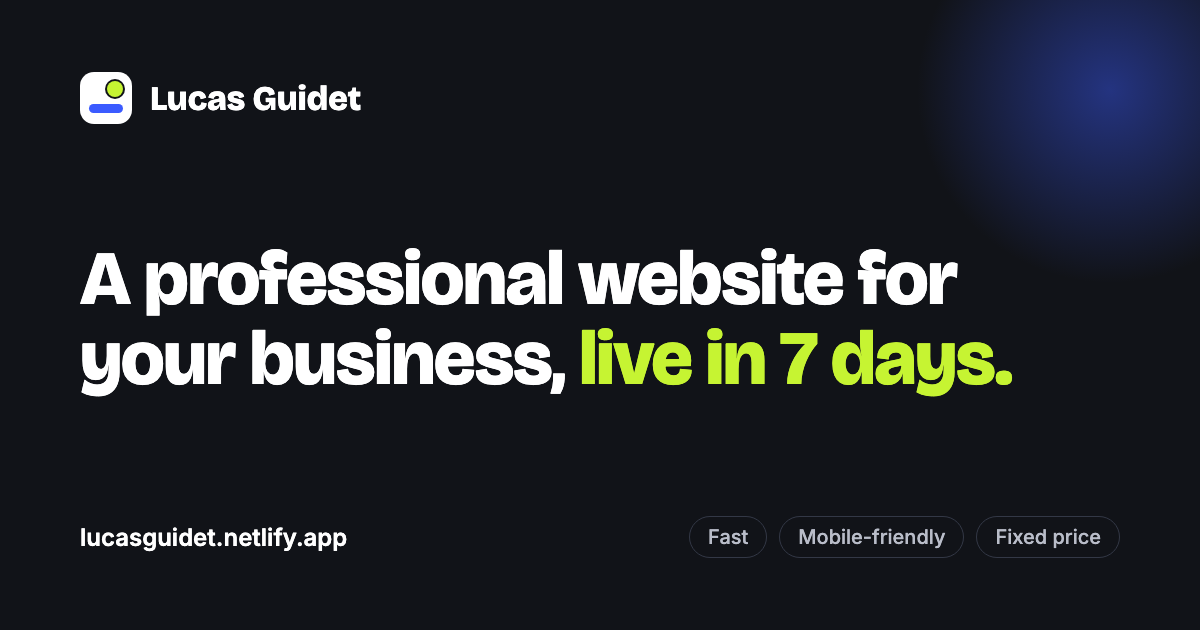
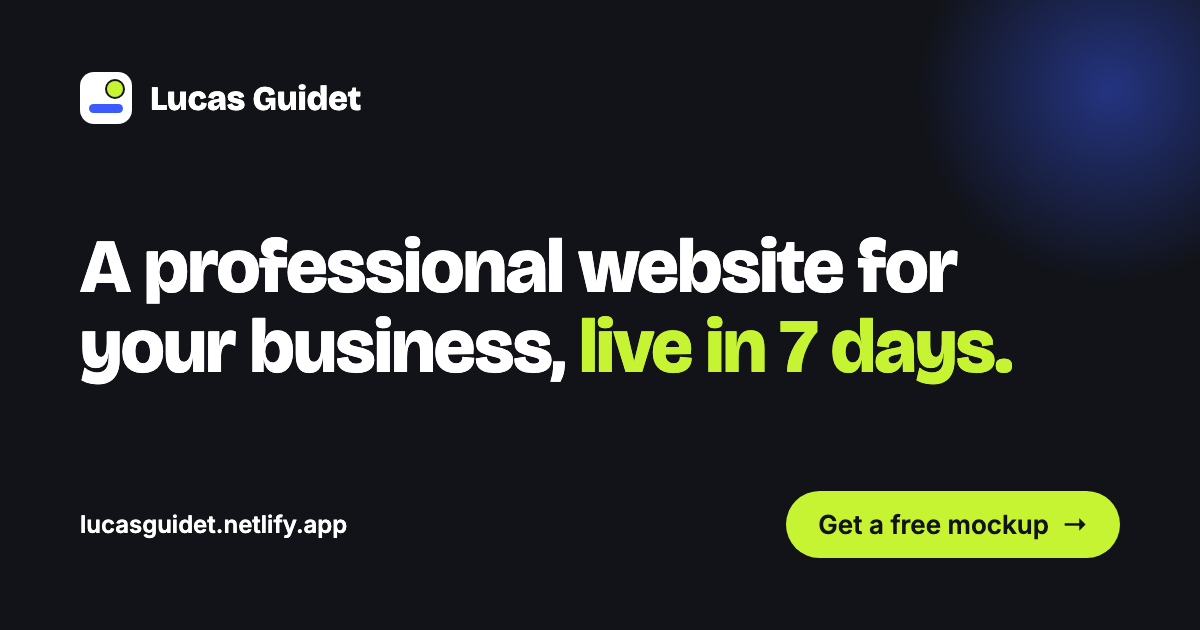
SEO : titres et description raccourcis, og:site_name, CTA sur l'image d'aperçu

Changed region(s): [[0.0617, 0.3619, 0.8633, 0.6333], [0.5858, 0.754, 0.9558, 0.9048], [0.0617, 0.8143, 0.3083, 0.8746]]

diff --git a/index.html b/index.html
@@ -4,13 +4,14 @@
   <meta charset="UTF-8">
   <meta name="viewport" content="width=device-width, initial-scale=1">
   <!-- À PERSONNALISER : titre et description (SEO) -->
-  <title>Lucas Guidet — Professional websites for small businesses, live in 7 days</title>
-  <meta name="description" content="Freelance web designer and developer. Fast, mobile-friendly, SEO-ready websites for restaurants, clinics, craftspeople and local businesses. Fixed price, live in 7 days.">
+  <title>Lucas Guidet | Websites for Small Businesses, Live in 7 Days</title>
+  <meta name="description" content="Fast, mobile-friendly, SEO-ready websites for restaurants, clinics and local businesses. Fixed price, free mockup, live in 7 days.">
   <meta name="theme-color" content="#111318">
 
   <!-- Open Graph : aperçu du lien sur WhatsApp, LinkedIn, Facebook… (image : og-image.png, 1200x630) -->
   <meta property="og:type" content="website">
-  <meta property="og:title" content="Lucas Guidet — A professional website for your business, live in 7 days">
+  <meta property="og:site_name" content="Lucas Guidet">
+  <meta property="og:title" content="A professional website, live in 7 days">
   <meta property="og:description" content="Fast, modern, mobile-friendly websites for small businesses. Fixed price. Free mockup before you commit.">
   <meta property="og:url" content="https://lucasguidet.netlify.app/">
   <meta property="og:image" content="https://lucasguidet.netlify.app/og-image.png">
